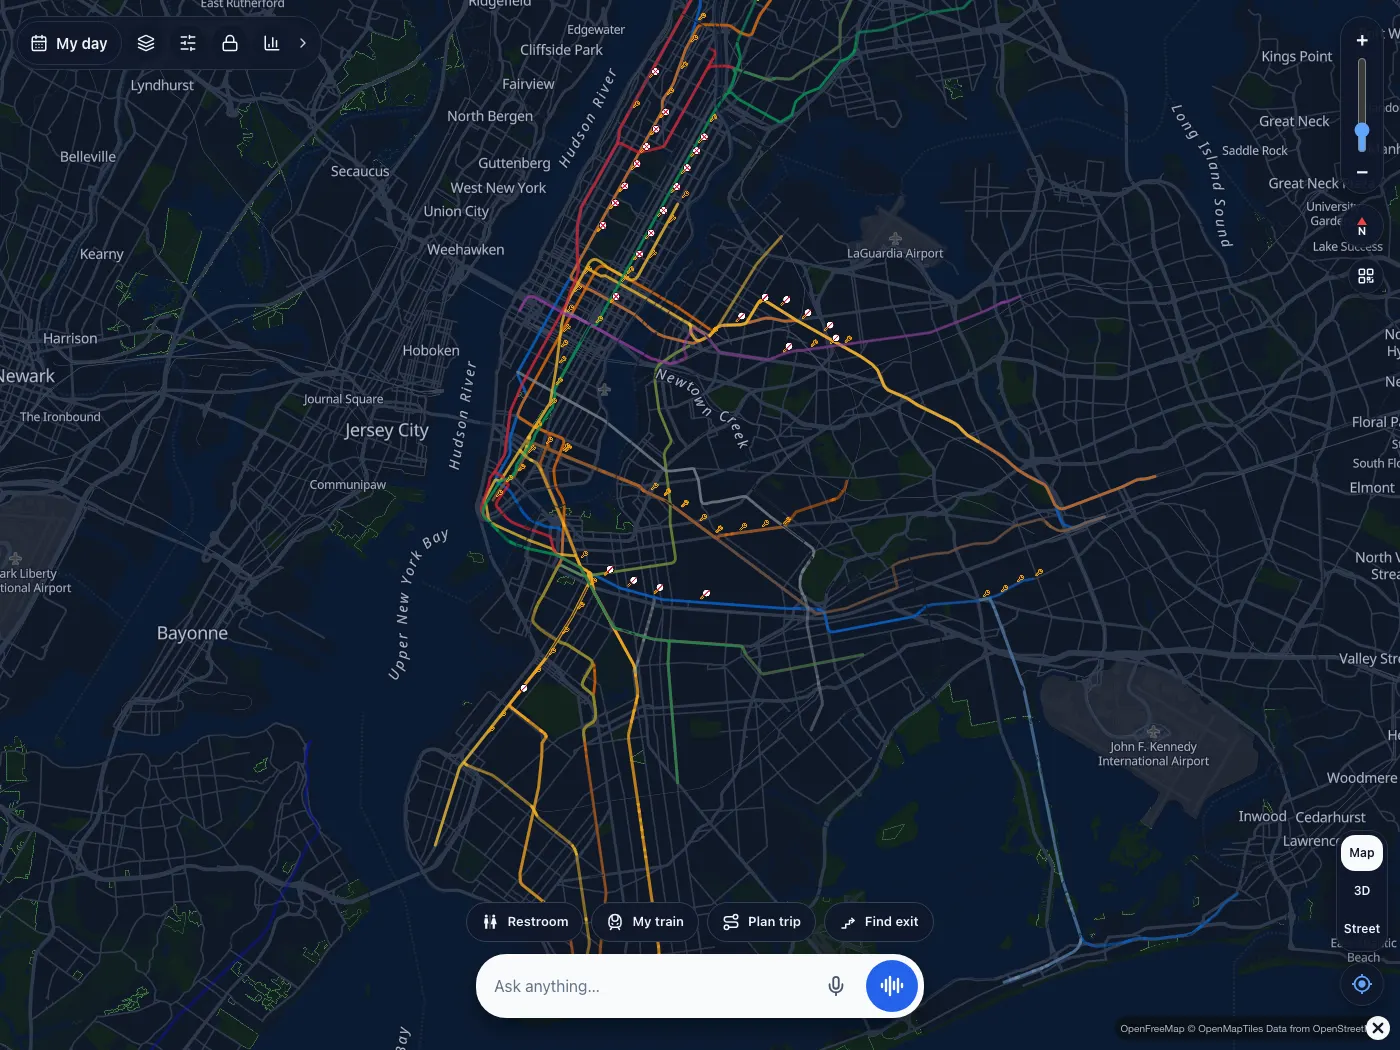
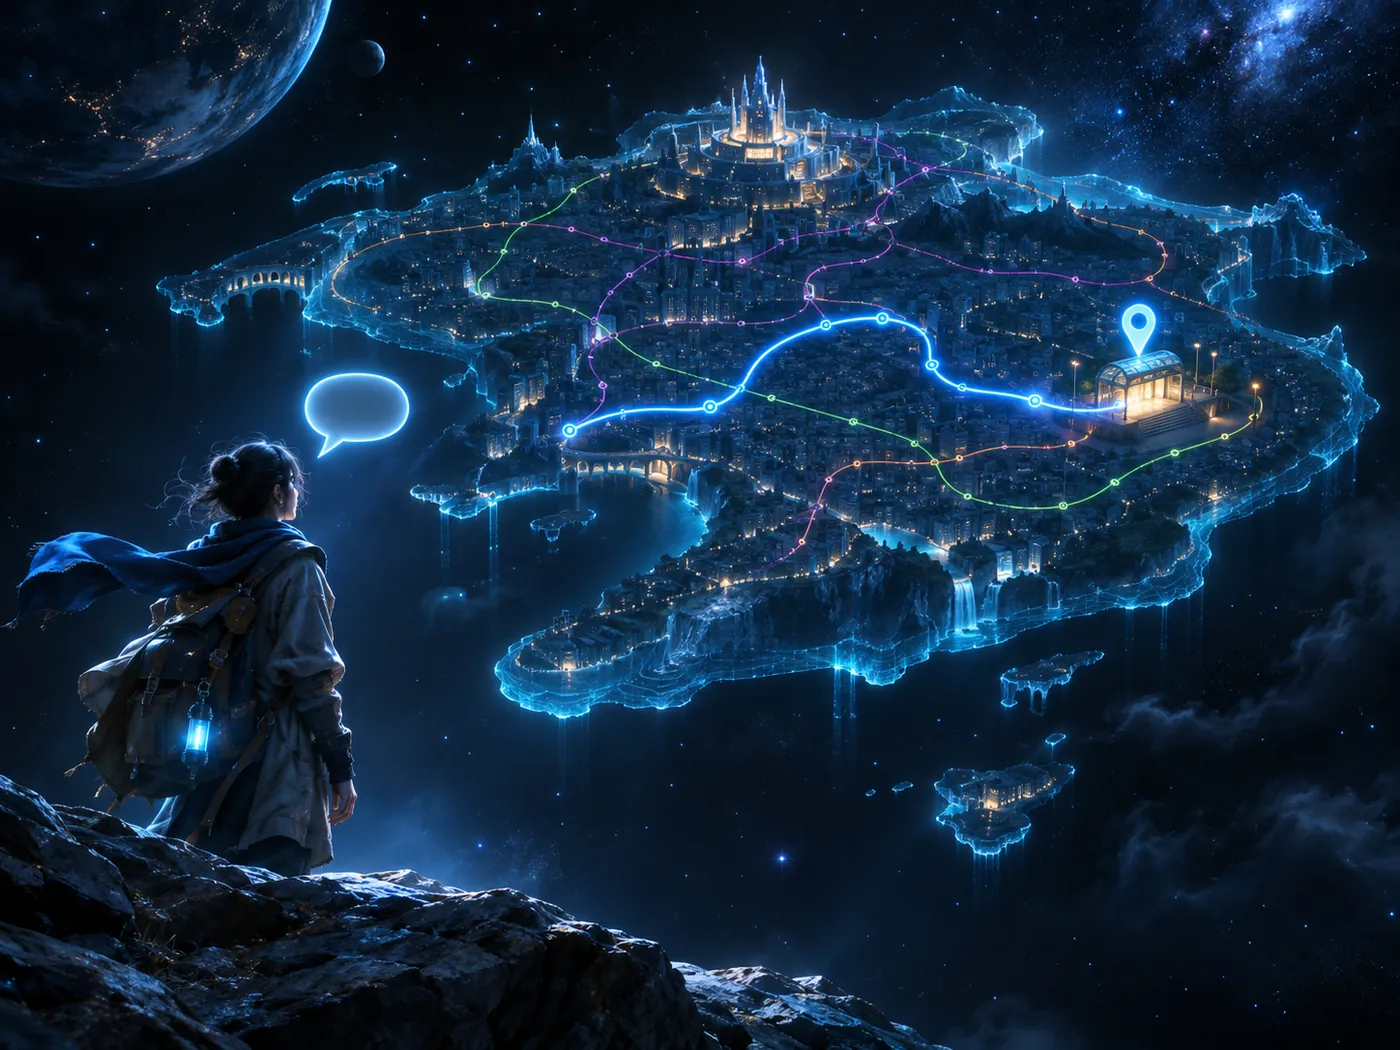
PCM DB-0157: space covers for Maybe, Maybe Home, Riley, NYC Map Agent and Octo (#248)

diff --git a/frontend/src/app/modules/lab/LabWork.tsx b/frontend/src/app/modules/lab/LabWork.tsx
@@ -29,6 +29,7 @@ const PROJECT_MEDIA: Record<number, string> = {
   14: 'voidfeed',
   15: 'precedent',
   17: 'nyc-map-agent',
+  18: 'octo',
   19: 'maybe-home',
   20: 'riley',
 };

diff --git a/tasks/TASK-DB-0157-space-covers.md b/tasks/TASK-DB-0157-space-covers.md
@@ -1,0 +1,9 @@
+# TASK-DB-0157: Space covers for Maybe, Maybe Home, Riley, NYC Map Agent and Octo
+
+**Goal.** DB-0156 used screenshots of the live sites as the pictures. The owner wanted pictures made from what each app does, in the portfolio's space style, and a picture for Octo too.
+
+**Done.**
+- Maybe (`website-copilot.webp`), Maybe Home and Riley use the space covers made in DB-0145 (PR #231, never merged) with the Codex CLI image tool: a person at a moon-outpost table reading a form with a warm helper; stepping stones to a brownstone on an asteroid; a nurse's phone signal landing on one lit day at an orbital hospital. Their card colours now match the covers (amber, blue, rose).
+- New covers made the same way, with two existing covers as the style reference: NYC Map Agent (a newcomer on a ledge looking at a floating city map, one blue route lit to a station entrance) and Octo (a station of eight violet vault pods around one core, ships and planets docked to their own pod).
+- `LabWork.tsx` `PROJECT_MEDIA` gains 18 (Octo). 1400×1050 WebP.
+- The Octo `engineering_projects` doc gets the new colours after the deploy.

diff --git a/checkpoints/CURRENT.md b/checkpoints/CURRENT.md
@@ -8,6 +8,7 @@ Feature work resumed on the owner's direction after the DB-0102 rollback. The si
 
 ## Active
 
+- [DB-0157](../tasks/TASK-DB-0157-space-covers.md): space covers for Maybe, Maybe Home, Riley, NYC Map Agent and Octo in place of the DB-0156 screenshots.
 - [DB-0156](../tasks/TASK-DB-0156-portfolio-maybe-home-riley.md): Website Copilot becomes Maybe with its own picture; Maybe Home and Riley join the work list; NYC Map Agent gets its picture.
 - [DB-0155](../tasks/TASK-DB-0155-page-buttons-summarise.md): a page button in the chat summarises what it opens, and the way to keep talking sparkles after each reply.
 - [DB-0154](../tasks/TASK-DB-0154-speech-gateway.md) / [#241](https://github.com/Pukujan/design-bakery/issues/241): the live call's speech goes through the shared speech gateway on the VPS instead of the socat tunnel. Merged (#242, #243), deployed, checked with scripted calls.
